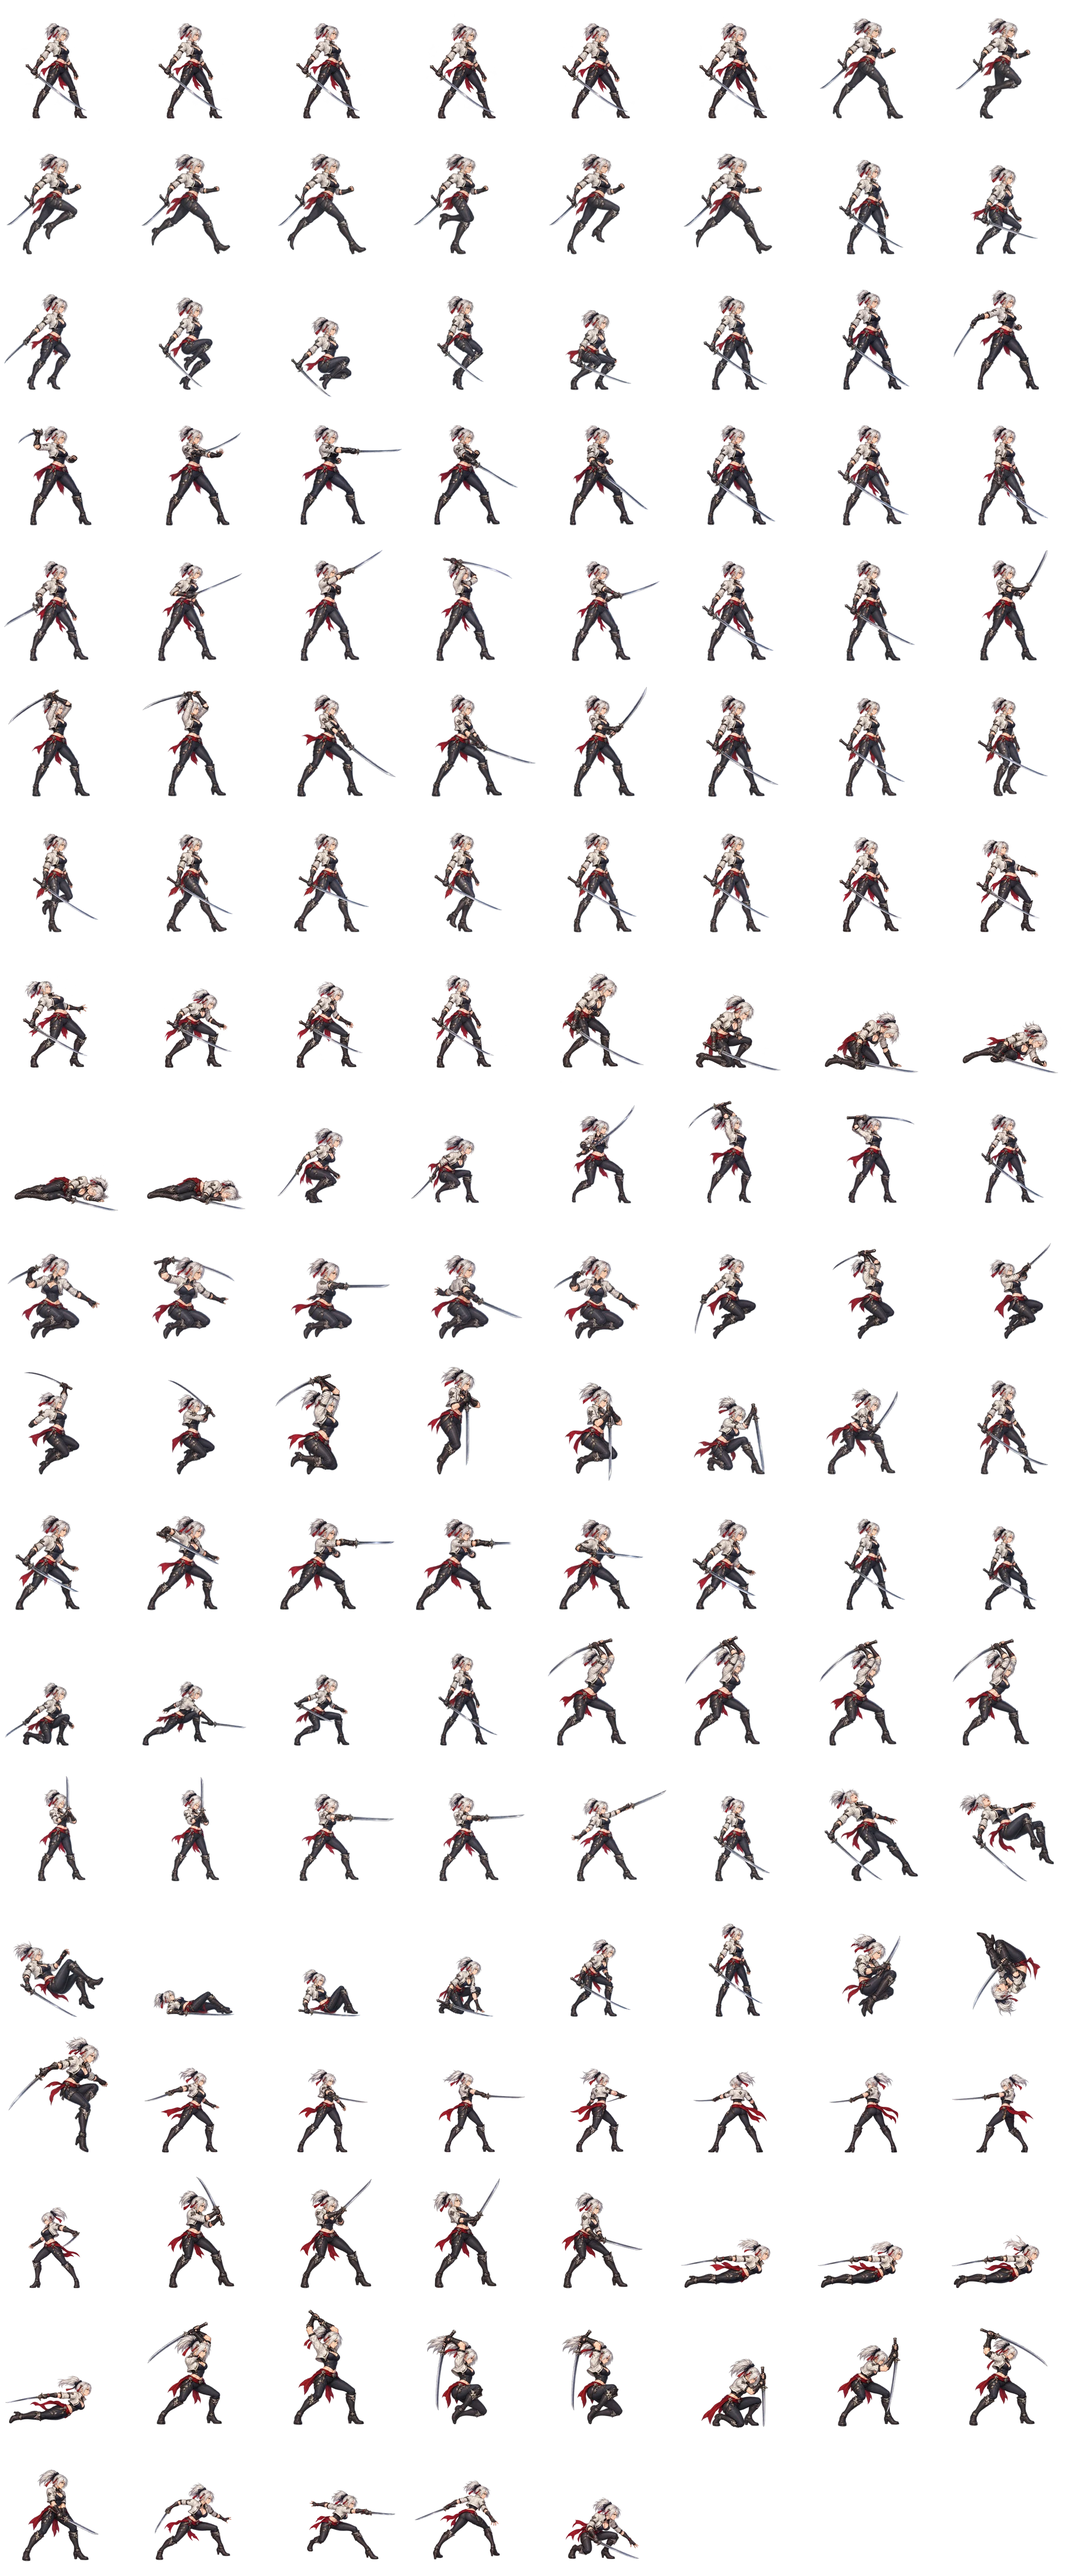
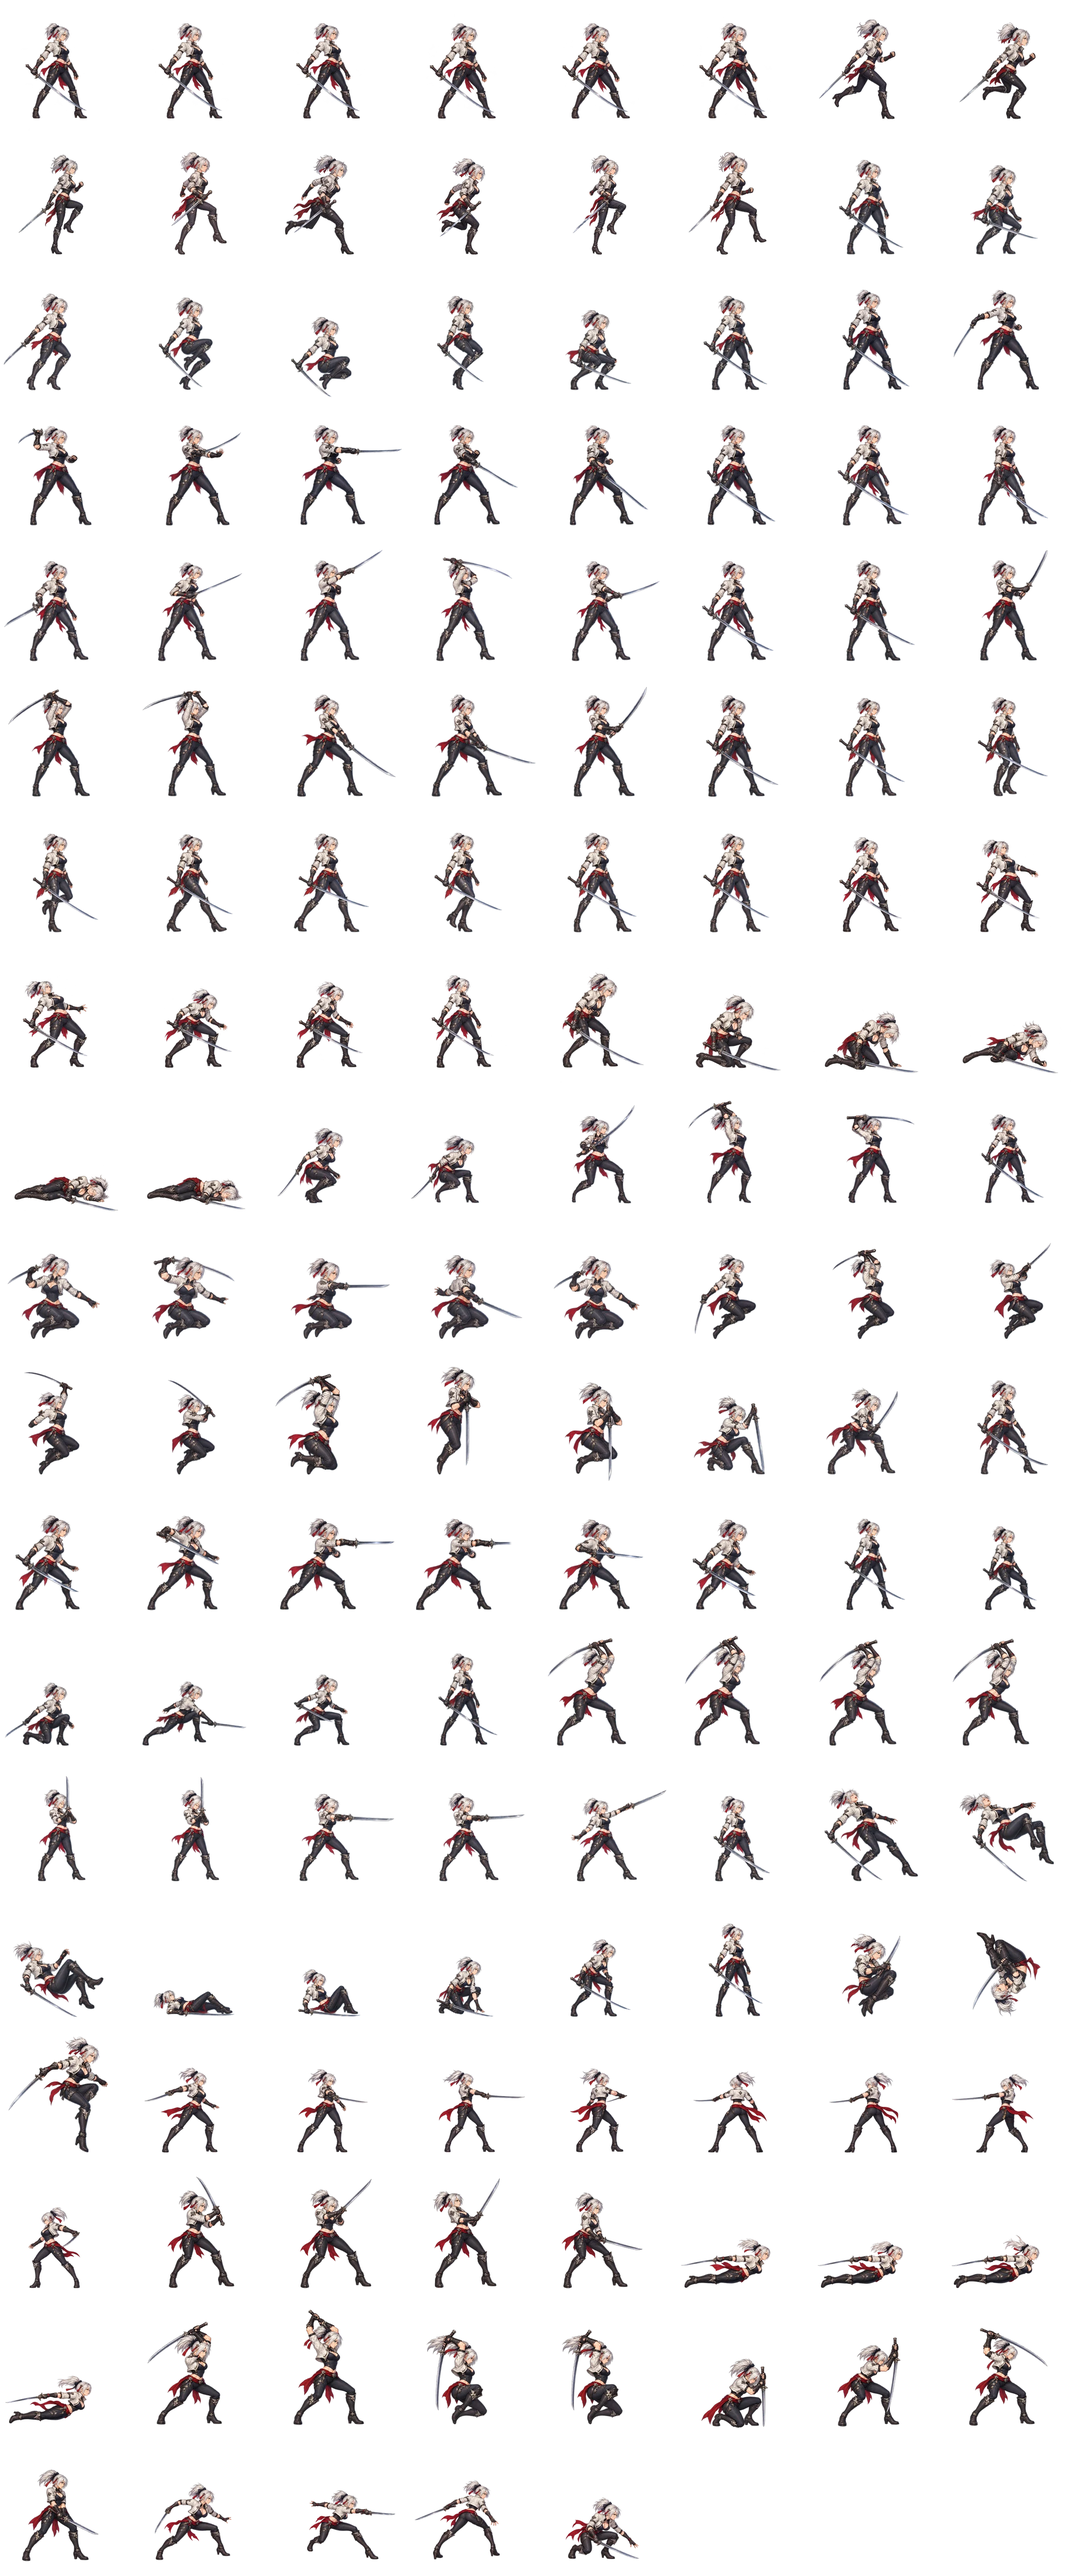
子轮 C：接入 hero_fix_v1（跑步 8 帧重画、刀柄和刀身一条线），跑步按交付步幅标定
- 用原始 v2、skills_v3 素材包加 hero_fix_v1 重新生成主角图集（先验证不加新包时生成结果和仓库一致；只有 9 个格子变化）
- build_sprites.py：追加的素材包可以覆盖同名帧（沿用原格子），override 动画只替换帧
- 跑步恢复完整 8 帧，每走 10.8 逻辑像素换一帧（战斗）/ 6.5（地图），着地脚不滑
- 规格文档按定稿造型更正人物描述，ART_FEISUN.md 记下定稿造型，接入记录写进 ART_HERO_FIX_V1.md

Claude-Session: https://claude.ai/code/session_016hifdkBdBtKZpyLgvXjhcu

diff --git a/src/sprite.js b/src/sprite.js
@@ -205,11 +205,11 @@ function onceIndex(S, anim, ms) {
   return names.length - 1;
 }
 
-// 跑步：按走过的距离换帧（不按时间），脚步和地面速度对上，不会「滑步」。
-// 素材里的 8 帧跑步有两对几乎一样的「双脚分开」帧（3≈4、7≈0），按顺序播会在每半个循环卡一下：
-// 只用 6 帧 [0,1,2,4,5,6]，左右脚各一个「着地 → 过渡 → 腾空」。素材重绘（hero_fix_v1）回来以后换回完整 8 帧
-export const RUN_CYCLE = [0, 1, 2, 4, 5, 6];
-export const RUN_STEP = 20; // 战斗里每走多少逻辑像素换一帧（一个循环 6 × 20 = 120，和素材的步幅相配）
+// 跑步：按走过的距离换帧（不按时间），着地的脚和地面速度对上，不会「滑步」。
+// 素材 hero_fix_v1（docs/ART_HERO_FIX_V1.md）：8 帧左右腿交替，着地脚每帧匀速后移 40 素材像素
+// = 40 × 0.5（256 格子）× 0.54（HERO_SCALE）= 10.8 逻辑像素 → 每走 10.8 换一帧，脚踩住地面不滑
+export const RUN_CYCLE = [0, 1, 2, 3, 4, 5, 6, 7];
+export const RUN_STEP = 10.8; // 战斗里每走多少逻辑像素换一帧（一个循环 8 × 10.8 ≈ 86）
 export const runFrame = (dist, step = RUN_STEP) => RUN_CYCLE[Math.floor(Math.max(0, dist) / step) % RUN_CYCLE.length];
 
 // 主角当前应该显示哪一帧

diff --git a/src/world.js b/src/world.js
@@ -562,7 +562,7 @@ export class World {
     if (Math.abs(vy) > 0.05 && can(h.x, h.y + vy)) { h.y += vy; moved += Math.abs(vy); }
     if (Math.abs(dx) > 0.15) h.facing = Math.sign(dx);
     h.moving = moved > 0.3 ? Math.min(1, h.moving + 0.25) : Math.max(0, h.moving - 0.2);
-    h.phase += moved / 12; // 走 12 像素换一帧（6 帧一个循环 ≈ 72 像素，和地图上的人物大小相配：战斗里 120 × 地图缩放 0.6）
+    h.phase += moved / 6.5; // 走 6.5 像素换一帧：战斗里的 10.8 × 地图缩放（MAP_SCALE / HERO_SCALE ≈ 0.6），脚踩住地面不滑
     // 镜头：平滑跟随，略微看向前方
     const tx = clamp(h.x - VIEW_W / 2 + h.facing * 30, 0, MAP_W - VIEW_W), ty = clamp(h.y - VIEW_H * 0.58, 0, MAP_H - VIEW_H);
     this.cam.x += (tx - this.cam.x) * 0.1;
@@ -903,7 +903,7 @@ export class World {
 
   heroFrame(t) {
     const S = heroSprite, h = this.hero;
-    if (h.moving > 0.3) return S.frame('run', runFrame(h.phase, 1)); // 和战斗里同一套 6 帧循环，按走过的距离换帧
+    if (h.moving > 0.3) return S.frame('run', runFrame(h.phase, 1)); // 和战斗里同一套 8 帧循环，按走过的距离换帧
     const n = S.meta.anims.idle.frames.length;
     return S.frame('idle', Math.floor(t / 9) % n);
   }

diff --git a/tools/build_sprites.py b/tools/build_sprites.py
@@ -6,6 +6,7 @@ python3 -I tools/build_sprites.py <素材包根目录> <目标> [追加的素材
       bone_lord / altar_warden / night_raven / iron_jaw（首领）/ npc_zhupo / npc_moheng / npc_ali（守灯驿的人）/ props_s / props_l（小道具、大道具，来自同一个 env_props_v1 包）
 
 素材包都是 feisun.spritepack.v1 格式（单帧 PNG + animations.json），已经是原地动画，不再做对齐修正。
+追加的素材包可以覆盖前面同名的帧（沿用原来的格子）；动画标了 "override": true 时只替换帧、不改动画的帧列表。
 每个目标输出两套图集：
   桌面：<名字>.json + <名字>_atlas.webp（角色 256 格子）
   手机：<名字>_m.json + <名字>_m_atlas.webp（格子是桌面的 75%，内存约 56%；手机上角色只有 85～245px 高，看不出区别）
@@ -141,7 +142,8 @@ for pack in [SRC, *EXTRA]:
 canvas = entries[0][3]
 assert all(e[3] == canvas and e[4] == entries[0][4] and e[5] == entries[0][5] for e in entries), "同一目标里的画布和锚点必须一致"
 PX, PY = entries[0][4], entries[0][5]
-names = [fn for e in entries for fn in e[1]["frame_names"]]
+# 后面的素材包可以覆盖前面同名的帧（重画修正，比如 hero_fix_v1）：同名帧沿用原来的格子，不多占位置
+names = list(dict.fromkeys(fn for e in entries for fn in e[1]["frame_names"]))
 cols, rows = 8, (len(names) + 7) // 8
 
 # 先按原尺寸算每帧的稳身偏移和刀身（刀身在 256 格子上检测，再按比例换算）
@@ -180,6 +182,8 @@ for suffix, cell in (("", T["cell"]), ("_m", round(T["cell"] * 0.75))):
                 b = blades[fn]  # 存成相对锚点（脚底）的坐标
                 fr["blade"] = [round((b[0] - PX) * S, 1), round((b[1] - PY) * S, 1), round((b[2] - PX) * S, 1), round((b[3] - PY) * S, 1)]
             out["frames"][fn] = fr
+        if anim.get("override"):  # 只替换帧（比如单独重画的 jump_02），不改这组动画的帧列表
+            continue
         out["anims"][aname] = {"frames": anim["frame_names"], "loop": anim["loop"], "contact": anim.get("suggested_contact_frame_indices", []),
                                "windup": anim.get("suggested_windup_frame_indices", [])}
     atlas.save(f"{OUT}/{N}{suffix}_atlas.webp", "WEBP", quality=88, method=6)

diff --git a/docs/ART_HERO_FIX_V1.md b/docs/ART_HERO_FIX_V1.md
@@ -28,7 +28,7 @@
 - 人物身高约 360 px（和现有帧同比例，交付前和 `idle_00` 并排比对）。
 - **原地动画**：头和躯干的水平位置每帧都在 x ≈ 220（±4 px），只有手脚、头发、腰带、刀动；身体不在画布里平移。
 - **干净帧**：没有刀光、拖尾、发光、速度线、火花——只有角色和刀。
-- 身份：和现有绯隼完全一致——银发高马尾、深色发带红饰、象牙色短上衣、深藏青紧身裤、护腕、及膝长靴、深红短腰带尾、**一把单刃长刀**（刀身微弯，刀镡、刀柄缠绳、柄头和现有帧一样）。用 `artwork/hero_fullbody.png` 当身份参考图。
+- 身份：以定稿素材为准（`docs/ART_FEISUN.md`「定稿造型」）——银白色单马尾（黑色蝴蝶结 + 红缎带）、白色短外套 + 深色内搭、红腰布、深色长裤、黑色高筒靴配银色星形饰件，**一把单刃长刀**（刀镡、刀柄缠绳、柄头和现有帧一样）。用 `artwork/hero_fullbody.png` 当身份参考图。
 - 画风：和现有帧一致的手绘动漫游戏风、稳定的赛璐璐阴影、背光一侧淡淡的冷色轮廓光。
 
 ## 四、跑步循环 8 帧的动作要求
@@ -93,9 +93,10 @@ hero_fix_v1/
 ### 跑步循环（8 帧，4 列 × 2 行，2048×1024）
 ```
 Use case: stylized-concept. Asset type: production sprite animation sheet for a 2D side-scrolling action game.
-The reference image is the IDENTITY / COSTUME reference, not the layout. Draw exactly the SAME adult silver-haired
-female swordswoman: small high ponytail dark ribbon red ornament, ivory short jacket, dark navy fitted trousers,
-bracers, knee-high boots, crimson short sash tails, ONE long single-edged steel sword with a slight curve.
+The reference image is the IDENTITY / COSTUME reference, not the layout. Draw exactly the SAME adult female
+swordswoman as the reference: silver-white single ponytail with a black bow and red ribbons, white cropped jacket
+over a dark top, red waist cloth, dark long trousers, tall black boots with silver star-shaped ornaments,
+ONE long single-edged steel sword.
 Preserve her face, hair, weapon, outfit and proportions, in crisp high-quality hand-drawn anime game art with
 consistent controlled cel shading. Subtle cool rim light along the back edge of the silhouette.
 OUTPUT LAYOUT IS CRITICAL: exactly EIGHT full-body sequential animation poses in a uniform FOUR-column TWO-row
@@ -138,3 +139,13 @@ the closed fist.
 `python3 -I tools/build_sprites.py <v2 包> hero <skills_v3 包> <hero_fix_v1 包>`（后面的包覆盖同名帧），重新生成桌面 / 手机图集；
 跑步改回完整 8 帧按距离播放（`src/sprite.js` 的 `RUN_CYCLE`、`RUN_STEP` 按新步幅标定），刀光检测（`blade`）把 `run`、`jump` 加进去复核；
 截图对比、跑全套测试、记录帧率后发布。
+
+## 九、接入记录（2026-11-06，Release `assets-v8`）
+
+- Muse 独立验货通过：zip 完整、19 个文件，9 帧 512×512，地面线统一 y = 448，没有重复姿势，刀柄—刀镡—刀身一条直线，人物身份和定稿一致。
+- **造型描述更正**：本文件原来第三节、第七节的人物文字和定稿用词不一致；已经按定稿造型（`docs/ART_FEISUN.md`）改正，本包按定稿造型生成。
+- **和规格不同的地方**：
+  - 步幅：交付的着地脚每帧后移 **40** 素材像素（规格写的是 57）。游戏按交付的 40 标定（`RUN_STEP` = 40 × 0.5 × 0.54 = 10.8 逻辑像素一帧），脚不滑；代价是步频偏快（满速约 23 帧 / 秒，一个循环 0.35 秒）。
+  - 包里没有 `animations.json`：接入时写了一个适配说明（只覆盖 `run` 8 帧和 `jump_02`），用 `tools/build_sprites.py` 和原始 v2、skills_v3 包一起重新生成图集。先验证了「不加本包时重新生成的图集和仓库里的一模一样」，再加本包；结果只有这 9 个格子变了。
+  - 刀的样式：新帧里的刀身比旧帧直一些；游戏尺寸下看不出明显差别，记录在这里。
+- **条件帧**：`launcher_00`、`air_slash_02_00` 复核结论是面部、握刀手、刀镡细节偏软，刀没有折角，本包未重画。判断：这两帧在游戏里各只显示几帧（招式起手），不单独出包；以后有主角素材包（比如职业系统 / 装备外观需要重画主角时）一并重画。

diff --git a/docs/AUDIT_PRE_GODOT.md b/docs/AUDIT_PRE_GODOT.md
@@ -59,7 +59,7 @@
 - **修复路线**：
   - **代码（已做，过渡）**：跑步按走过的距离换帧（战斗 20 像素 / 帧、地图 12 像素 / 帧），只用 6 帧 `[0,1,2,4,5,6]` 去掉卡顿的重复帧；残影同一套。
   - **新素材包（根治）**：重画 8 帧跑步循环（左右腿交替、着地脚匀速后移、步幅标定），见 `hero_fix_v1`。
-- **状态**：代码过渡已做；**SPEC READY FOR CODEX：hero_fix_v1**（第一包）。手感未验证。
+- **状态**：已完成（子轮 C）。`hero_fix_v1`（Release `assets-v8`）接入：8 帧左右腿交替，按交付的步幅标定为每走 10.8 逻辑像素换一帧，着地脚不再持续打滑（只剩换帧之间 ±5 像素的量化）。手感未验证（步频偏快，见 `ART_HERO_FIX_V1.md` 第九节）。
 
 ## 第 5 项：刀柄和刀身不在一条直线上（刀柄像折了）
 
@@ -69,7 +69,7 @@
   - 其余（待机、闪避、受击、倒地、三段普攻、起身、受身、空中受击、技能各帧）刀柄和刀身在刀身自然弧度内是一条线。
 - **根因**：素材本身画错（刀画在角色帧里，不是单独的武器层），代码无法单独矫正刀柄。
 - **修复路线**：**新素材包**，和第 4 项合并成 `hero_fix_v1`：跑步 8 帧本来就要重画，同时把刀握直；外加 `jump_02` 单帧重画；包里附逐帧「刀柄—刀身同线」校验图，`launcher_00`、`air_slash_02_00` 一并复核，有问题就一起重画。
-- **状态**：**SPEC READY FOR CODEX：hero_fix_v1**。
+- **状态**：已完成（子轮 C）：跑步 8 帧和 `jump_02` 的刀柄、刀镡、刀身是一条直线。`launcher_00`、`air_slash_02_00` 复核为细节偏软、没有折角，并入以后的主角素材包，不单独出包。
 
 ## 第 6 项：刀光亮度是均匀的半圆，没有「刀尖最亮、往里渐暗」
 

diff --git a/docs/ART_FEISUN.md b/docs/ART_FEISUN.md
@@ -1,5 +1,10 @@
 # 「绯隼」素材：接入情况与优化指南
 
+## 定稿造型（所有素材规格的人物描述都以这里为准）
+
+银白色单马尾（黑色蝴蝶结 + 红缎带）、白色短外套 + 深色内搭、红腰布、深色长裤、黑色高筒靴配银色星形饰件；手持一把单刃长刀。
+以现有定稿素材（`feisun_swordswoman_v2`、`feisun_skills_v3`、`hero_fix_v1`）为准；写新规格时引用这一段，不要另写人物描述。
+
 ## v2 接入情况（当前版本）
 
 素材包 `feisun_swordswoman_v2.zip`（Release `assets-v2`）：21 组动画、121 帧，攻击帧干净、跑动/攻击/闪避是原地动画、跳跃脚底在基线上。v1 指南里的 P0、P1 全部解决，已经全部接入。
